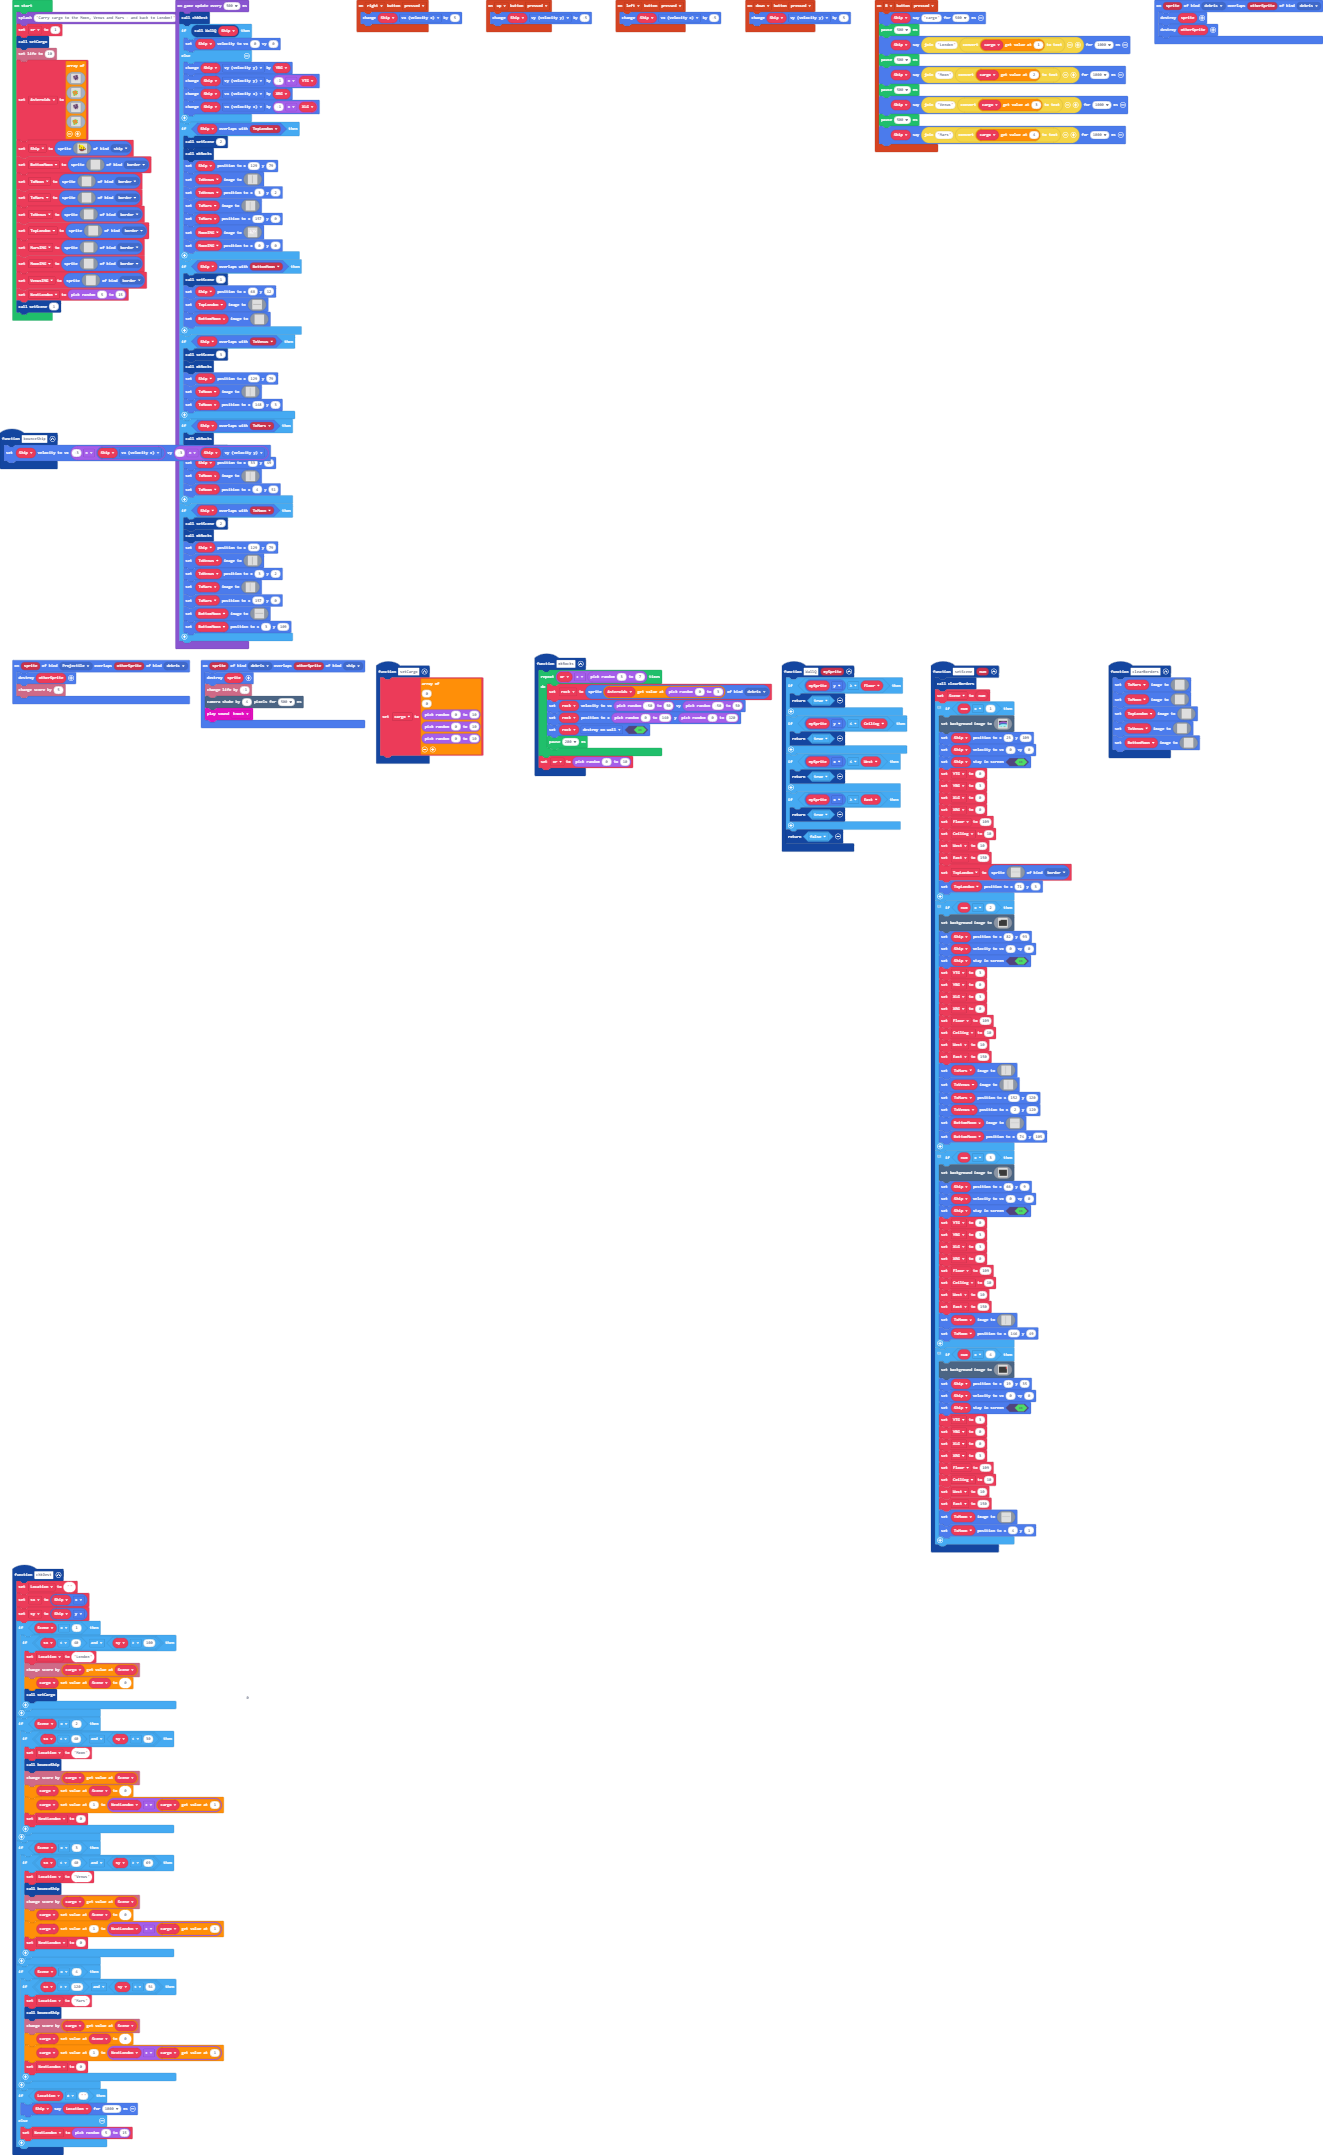
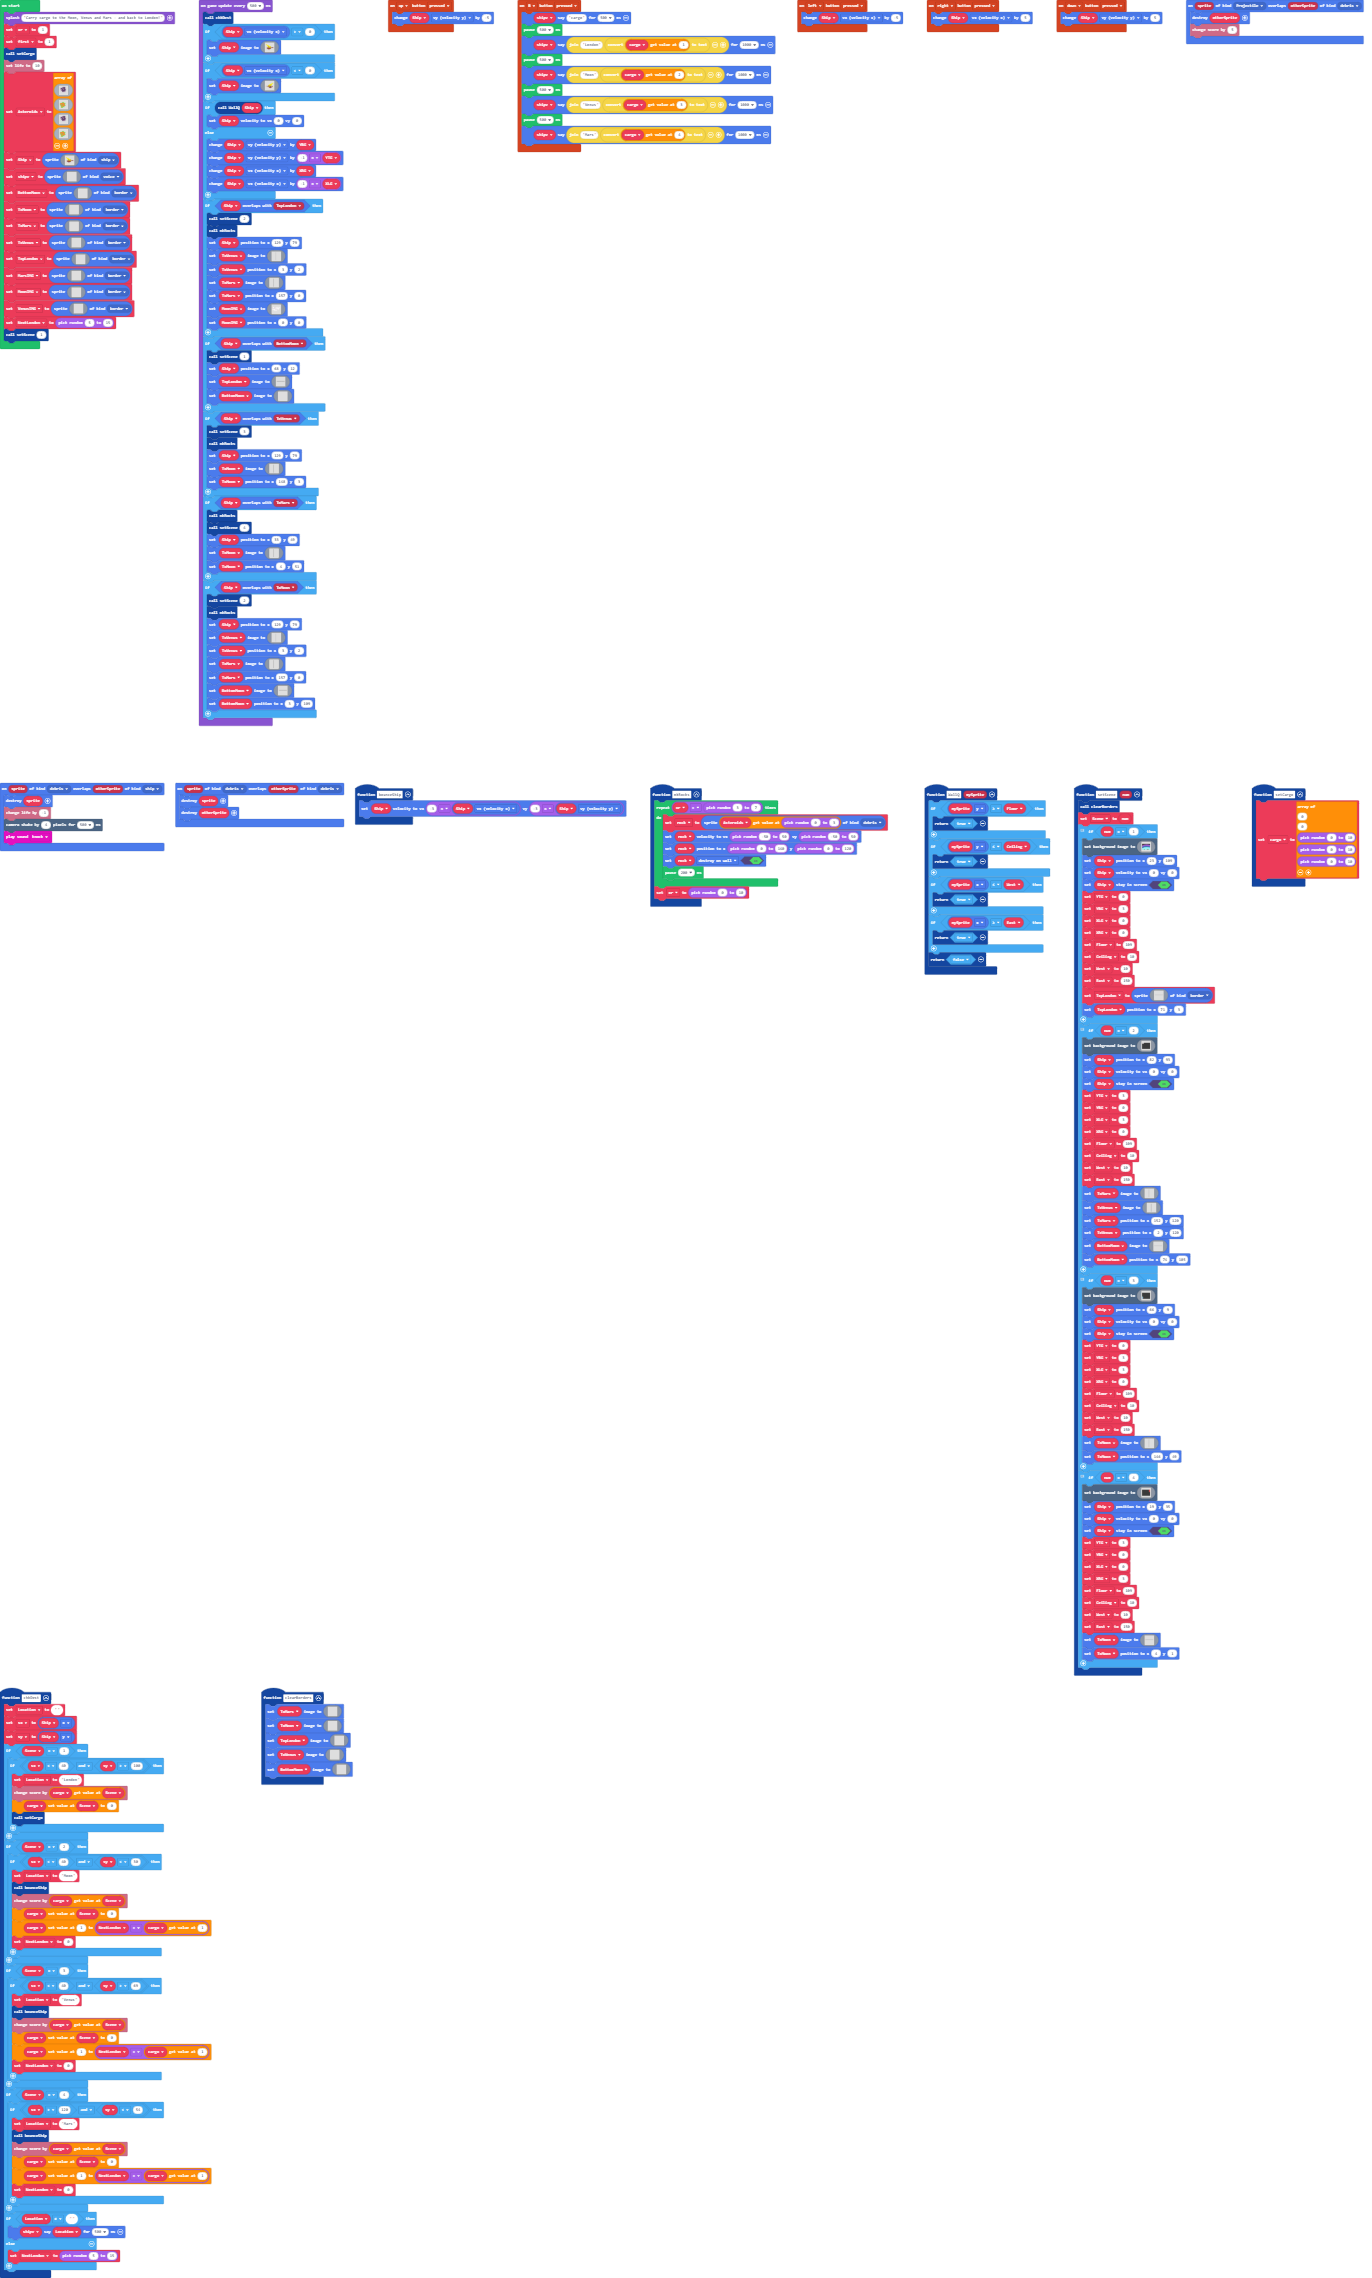
Update pxt.json, main.blocks, main.ts

Changed region(s): [[0.0, 0.0, 1.0, 0.7462], [0.0, 0.7151, 0.1859, 1.0], [0.1859, 0.7151, 0.2789, 0.8084]]

diff --git a/main.ts b/main.ts
@@ -2,20 +2,21 @@ namespace SpriteKind {
     export const ship = SpriteKind.create()
     export const border = SpriteKind.create()
     export const debris = SpriteKind.create()
+    export const voice = SpriteKind.create()
 }
 controller.up.onEvent(ControllerButtonEvent.Pressed, function () {
     Ship.vy += -5
 })
 controller.B.onEvent(ControllerButtonEvent.Pressed, function () {
-    Ship.say("cargo", 500)
+    shipv.say("cargo", 500)
     pause(500)
-    Ship.say("London" + convertToText(cargo[1]), 1000)
+    shipv.say("London" + convertToText(cargo[1]), 1000)
     pause(500)
-    Ship.say("Moon" + convertToText(cargo[2]), 1000)
+    shipv.say("Moon" + convertToText(cargo[2]), 1000)
     pause(500)
-    Ship.say("Venus" + convertToText(cargo[3]), 1000)
+    shipv.say("Venus" + convertToText(cargo[3]), 1000)
     pause(500)
-    Ship.say("Mars" + convertToText(cargo[4]), 1000)
+    shipv.say("Mars" + convertToText(cargo[4]), 1000)
 })
 function bounceShip () {
     Ship.setVelocity(-3 * Ship.vx, -3 * Ship.vy)
@@ -89,7 +90,6 @@ function setScene (num: number) {
         TopLondon.setPosition(71, 3)
     }
     // moon
-    // 
     if (num == 2) {
         scene.setBackgroundImage(assets.image`Moon`)
         Ship.setPosition(82, 93)
@@ -197,7 +197,7 @@ function chkDest () {
         }
     }
     if (Location != "") {
-        Ship.say(Location, 1000)
+        shipv.say(Location, 500)
     } else {
         NextLondon = randint(5, 15)
     }
@@ -229,6 +229,7 @@ let ToVenus: Sprite = null
 let ToMars: Sprite = null
 let ToMoon: Sprite = null
 let BottomMoon: Sprite = null
+let shipv: Sprite = null
 let Ship: Sprite = null
 let Asteroids: Image[] = []
 let xr = 0
@@ -244,6 +245,7 @@ assets.image`Asteroid1`,
 assets.image`Asteroid2`
 ]
 Ship = sprites.create(assets.image`ship`, SpriteKind.ship)
+shipv = sprites.create(assets.image`blah`, SpriteKind.voice)
 BottomMoon = sprites.create(assets.image`blah`, SpriteKind.border)
 ToMoon = sprites.create(assets.image`blah`, SpriteKind.border)
 ToMars = sprites.create(assets.image`blah`, SpriteKind.border)
@@ -272,10 +274,6 @@ game.onUpdateInterval(500, function () {
     }
     if (Ship.overlapsWith(TopLondon)) {
         setScene(2)
-        if (1 == first) {
-            game.splash("Venus is to your left, Mars to your right")
-            first = 0
-        }
         mkRocks()
         Ship.setPosition(129, 79)
         ToVenus.setImage(assets.image`Edge`)
